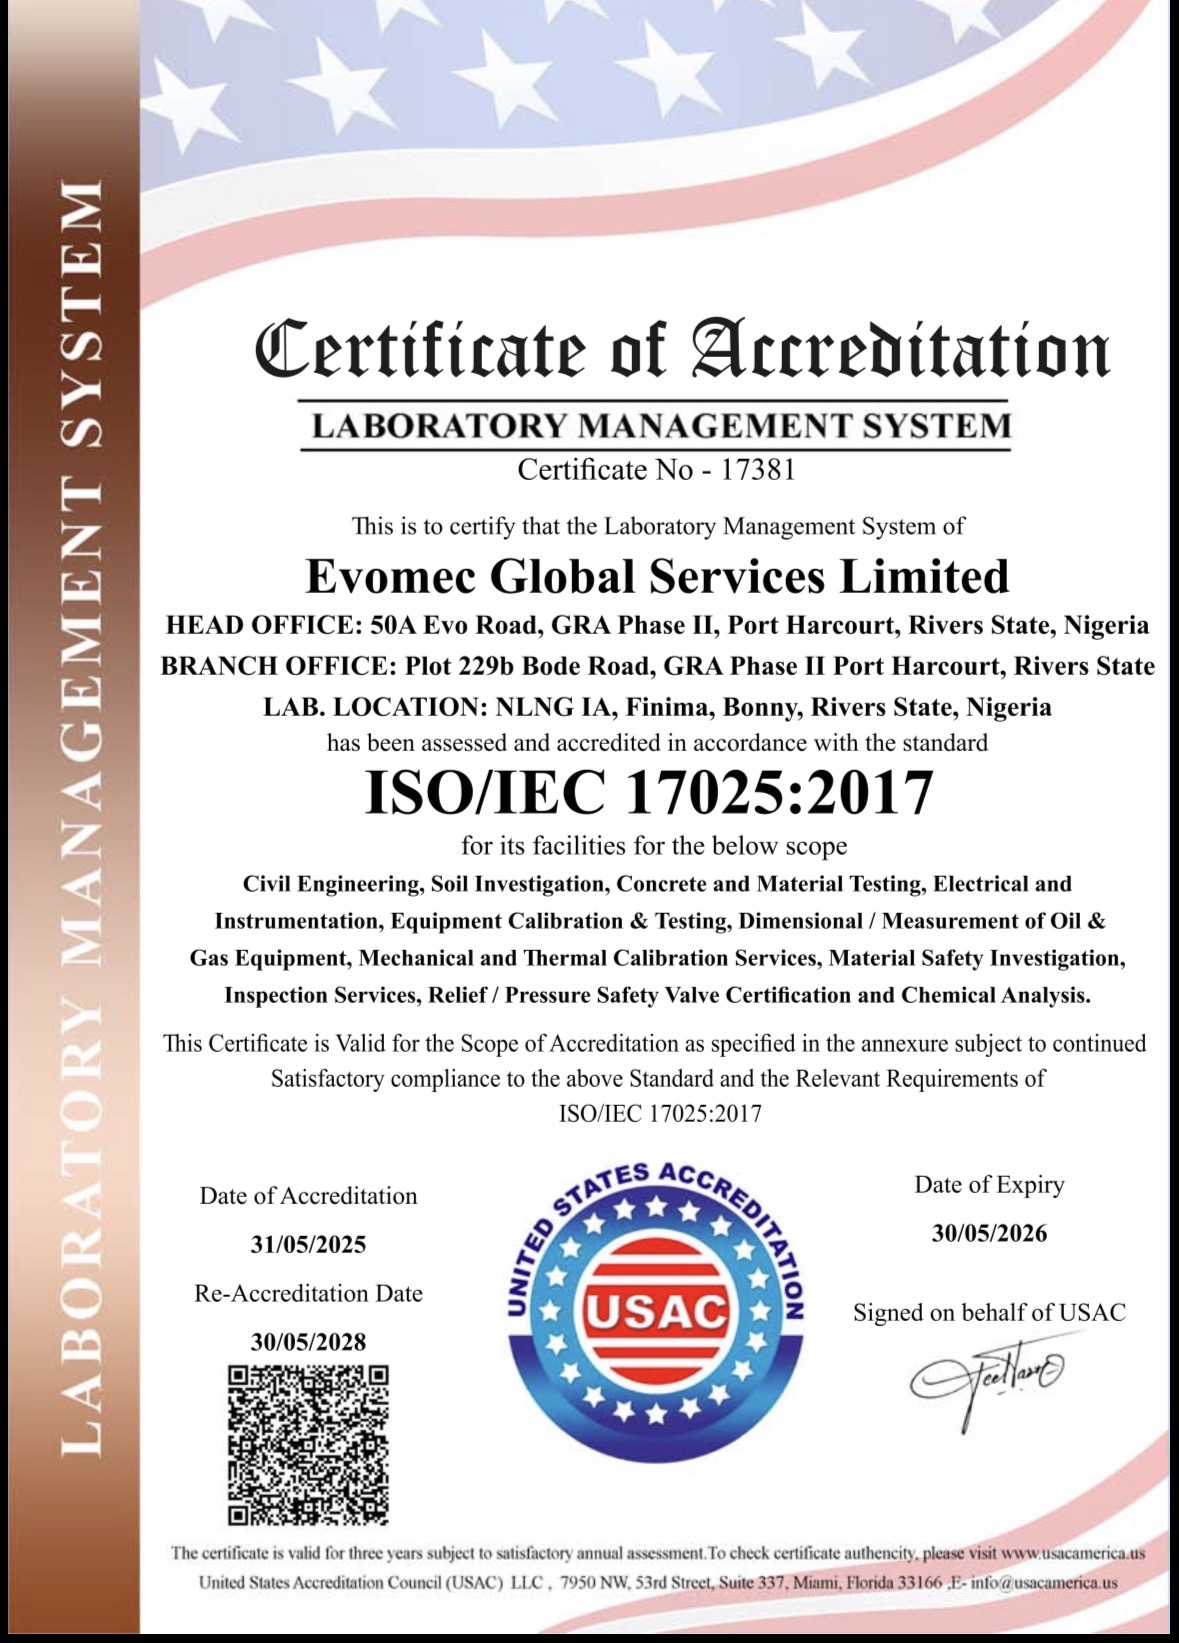
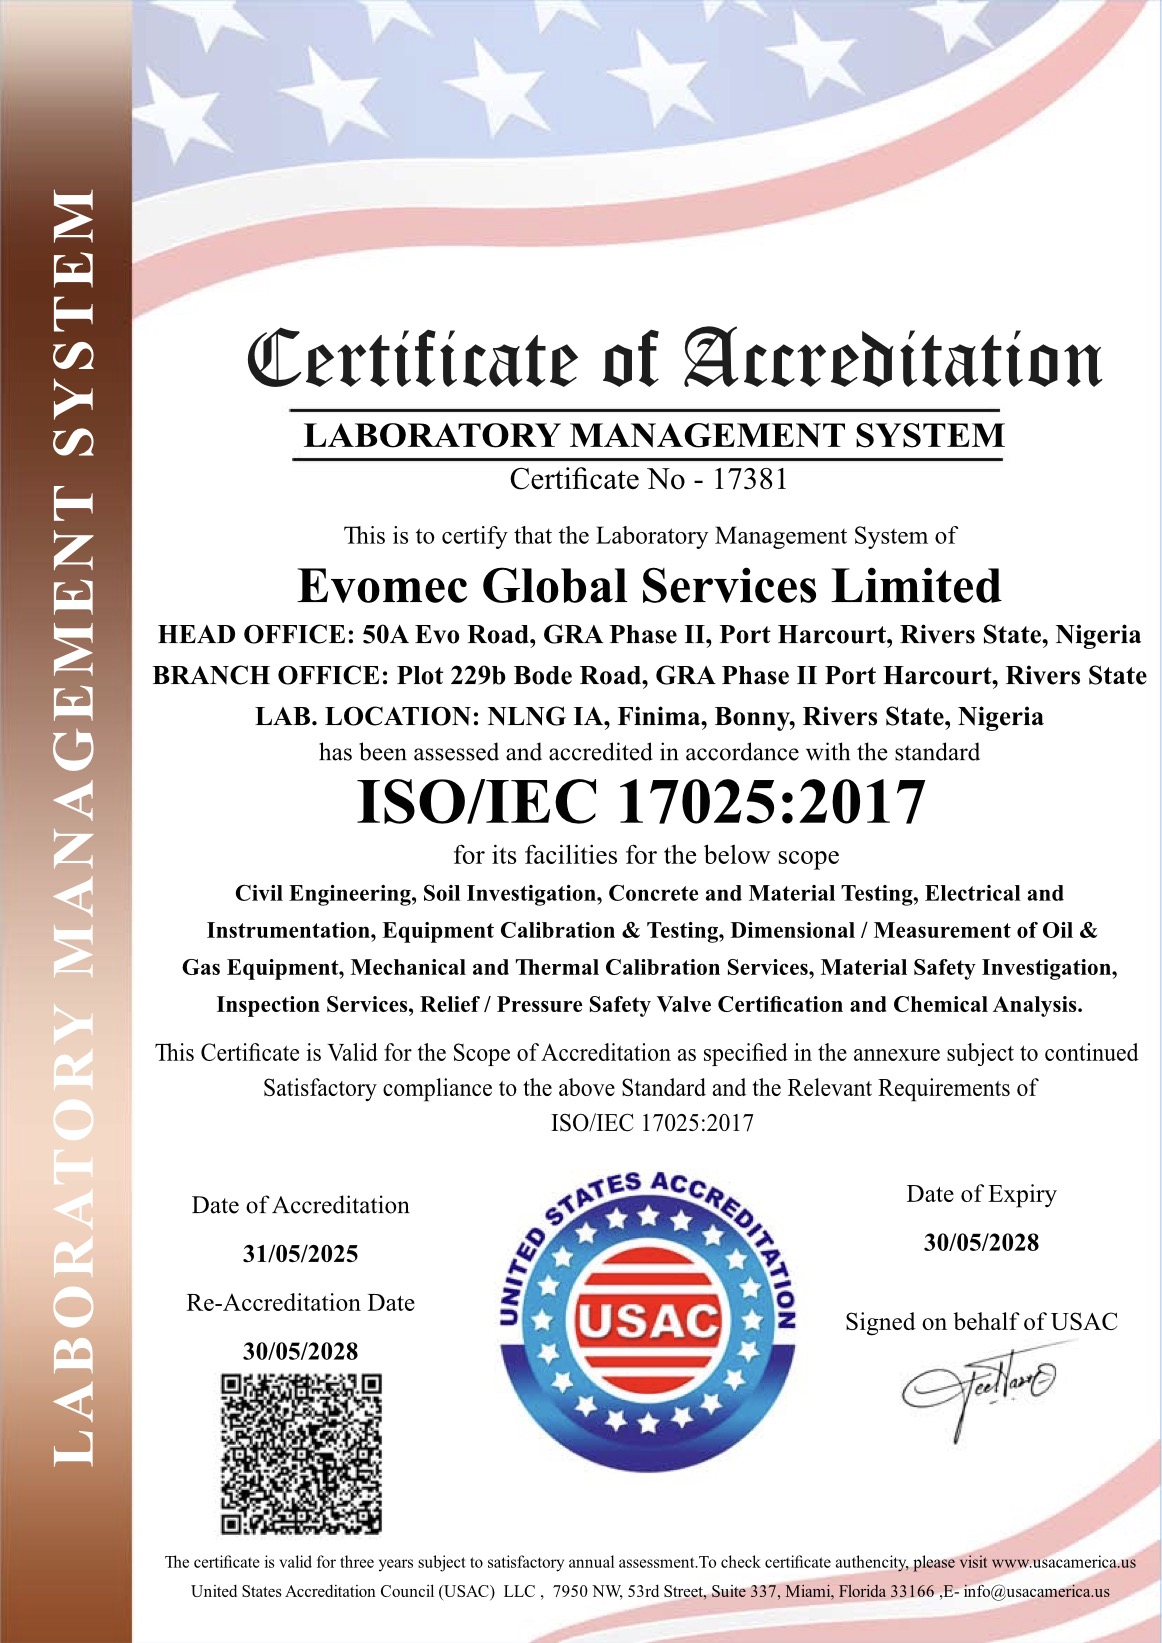
Extend ISO/IEC 17025 cert validity to 2028; clarify GM titles
Update laboratory certification image and hse.html validity date, and
add discipline (Mechanical & Projects / Civil & Projects) to the two
General Manager entries on the team page.

Changed region(s): [[0.0, 0.0, 1.0, 1.0], [0.7126, 0.7139, 0.9604, 0.8691], [0.4647, 0.0, 0.5267, 0.031]]

diff --git a/team.html b/team.html
@@ -313,7 +313,7 @@
           </div>
           <div class="flip-card-back">
             <div class="icon-tile mb-4"><i data-lucide="shield-check" class="w-4.5 h-4.5"></i></div>
-            <h3 class="text-body-md font-semibold text-ink mb-1">General Manager</h3>
+            <h3 class="text-body-md font-semibold text-ink mb-1">General Manager, Mechanical &amp; Projects</h3>
             <p class="text-body-sm text-ink-muted">Safety &amp; QMS compliance</p>
           </div>
         </div>
@@ -329,7 +329,7 @@
           </div>
           <div class="flip-card-back">
             <div class="icon-tile mb-4"><i data-lucide="package" class="w-4.5 h-4.5"></i></div>
-            <h3 class="text-body-md font-semibold text-ink mb-1">General Manager</h3>
+            <h3 class="text-body-md font-semibold text-ink mb-1">General Manager, Civil &amp; Projects</h3>
             <p class="text-body-sm text-ink-muted">Sourcing &amp; logistics</p>
           </div>
         </div>

diff --git a/hse.html b/hse.html
@@ -260,7 +260,7 @@
       <div class="p-5">
         <h3 class="text-title-md text-ink mb-1">ISO/IEC 17025:2017</h3>
         <p class="text-body-sm text-ink-muted mb-2">Laboratory Management System &mdash; USAC</p>
-        <span class="chip chip-success">Valid to 2026-05-30</span>
+        <span class="chip chip-success">Valid to 2028-05-30</span>
       </div>
     </button>
   </div>
